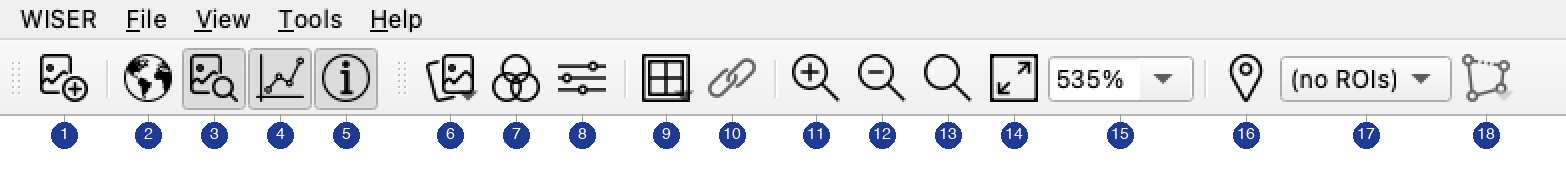
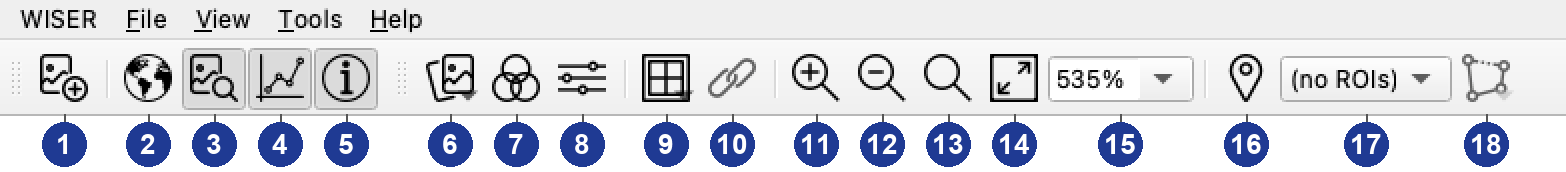
docs: flatten the tutorials navigation and enlarge the toolbar callouts
Fold the getting-started page into tutorials/index.md so the sidebar goes
straight from Tutorials to the eight tutorials, and title each tutorial
"N. Name" rather than "Tutorial N — Name". Draw the Tutorial 1 toolbar
callouts larger, in bold, and crop the unused second row.

Changed region(s): [[0.0, 0.0291, 1.0, 0.9593]]

diff --git a/doc/sphinx-general-wiser-docs/tools/make_tutorial_figures.py b/doc/sphinx-general-wiser-docs/tools/make_tutorial_figures.py
@@ -506,16 +506,16 @@ def toolbar():
     scale = 2
     strip = strip.resize((strip.width * scale, strip.height * scale), Image.NEAREST)
 
-    radius = 13
+    radius = 22
     band_height = 2 * (2 * radius + 10) + 8
     canvas = Image.new("RGB", (strip.width, strip.height + band_height), "#ffffff")
     canvas.paste(strip, (0, 0))
     draw = ImageDraw.Draw(canvas)
 
     font = None
-    for name in ("Helvetica.ttc", "Arial.ttf", "DejaVuSans.ttf"):
+    for name in ("Arial Bold.ttf", "DejaVuSans-Bold.ttf", "Arial.ttf"):
         try:
-            font = ImageFont.truetype(name, 16)
+            font = ImageFont.truetype(name, 28)
             break
         except OSError:
             continue
@@ -525,22 +525,23 @@ def toolbar():
     # Alternate between two rows whenever adjacent markers would collide.
     k = ratio * scale
     prev_x, prev_row = -1e9, 1
+    bottom = strip.height
     for i, (cx, _) in enumerate(entries, start=1):
         x = cx * k
         row = 0 if x - prev_x >= 2 * radius + 6 else 1 - prev_row
         prev_x, prev_row = x, row
         cy = strip.height + 6 + radius + row * (2 * radius + 10)
-        draw.line([(x, strip.height - 2), (x, cy - radius)], fill="#999999", width=1)
+        bottom = max(bottom, cy + radius + 6)
+        draw.line([(x, strip.height - 2), (x, cy - radius)], fill="#555555", width=2)
         draw.ellipse(
             [x - radius, cy - radius, x + radius, cy + radius],
             fill="#1f3a93",
             outline="#1f3a93",
         )
-        text = str(i)
-        tw = draw.textlength(text, font=font)
-        draw.text((x - tw / 2, cy - 9), text, fill="#ffffff", font=font)
+        draw.text((x, cy), str(i), fill="#ffffff", font=font, anchor="mm")
 
     path = OUT / "t1_toolbar_annotated.png"
+    canvas = canvas.crop((0, 0, canvas.width, bottom))
     canvas.save(path, "PNG", optimize=True)
     raw.unlink()
     _shrink(path)

diff --git a/doc/sphinx-general-wiser-docs/source/tutorials/index.md b/doc/sphinx-general-wiser-docs/source/tutorials/index.md
@@ -1,23 +1,120 @@
-# Tutorials and Example Workflows
+# Tutorials
 
-Start with the {doc}`Tutorials <getting-started>`.
+There are eight short tutorials, a little over two hours end to end. They run
+on data that ships with the WISER source, so there is nothing to download. Work
+through them in order and you will have used every major tool in the
+application on a real scene. If WISER is not installed yet, start with
+{doc}`Installation <../installation>`.
+
+```{admonition} What you are working with
+:class: note
+A GIS layer stores one value per pixel, or three if it is a color image. The
+scenes here store up to several hundred. Every pixel holds a spectrum: a
+measurement of how much light that patch of ground reflected at each of 4, 15
+or 425 wavelengths. WISER is built to read those spectra.
+
+So instead of arranging layers to make a picture, you read a measurement out of
+any pixel you click ({doc}`Tutorial 2 <02-spectra>`), average it over an area to
+get a signature you can trust ({doc}`Tutorial 3 <03-regions-of-interest>`),
+compare it against a laboratory reference to identify what is on the ground
+({doc}`Tutorial 7 <07-detection>`), and let the shapes of those spectra sort the
+scene into classes on their own ({doc}`Tutorial 5 <05-classification>`).
+
+Keep the Spectrum Plot pane open throughout. Most of what makes a result
+believable is visible there and nowhere else.
+```
+
+```{list-table}
+:header-rows: 1
+:widths: 6 32 42 20
+
+* - #
+  - Tutorial
+  - What you learn
+  - Data
+* - 1
+  - {doc}`Your First Scene <01-first-look>`
+  - Open a file, arrange the panes, choose bands, apply a contrast stretch
+  - `caltech_4_100_150_nm`
+* - 2
+  - {doc}`Reading Spectra <02-spectra>`
+  - Pull spectra from pixels, collect and compare them, load a mineral library, remove the continuum
+  - `caltech_425_7_7_nm`
+* - 3
+  - {doc}`Regions of Interest <03-regions-of-interest>`
+  - Define classes, extract mean signatures, export spectra and geometry
+  - `caltech_4_100_150_nm`
+* - 4
+  - {doc}`Band Math: Mapping Vegetation <04-band-math-ndvi>`
+  - Write and bind an expression, build a vegetation index, threshold it
+  - `caltech_4_100_150_nm`
+* - 5
+  - {doc}`Classifying a Scene <05-classification>`
+  - Read feature space in the scatter plot, run K-means, identify clusters
+  - `caltech_4_100_150_nm`
+* - 6
+  - {doc}`PCA and MNF <06-pca-mnf>`
+  - Reduce dimensions, read a scree plot, choose between variance and SNR ordering
+  - `caltech_4_100_150_nm`
+* - 7
+  - {doc}`Finding a Known Material <07-detection>`
+  - SAM, SFF, MTMF and linear unmixing, and which to reach for
+  - `caltech_15_20_22_bb`
+* - 8
+  - {doc}`Bench and Close-Range Data <08-bench-and-close-range>`
+  - The same tools on a laboratory cube, and what a bench instrument needs from you
+  - `circuit_4_100_150_um`
+```
+
+## The data
+
+Everything these tutorials need is already in your WISER checkout:
+
+```
+src/test_utils/test_datasets/     rasters
+src/test_utils/test_spectra/      spectral libraries
+```
+
+These are the project's unit-test fixtures, so they are small on purpose — a
+150 × 150 pixel campus scene, a 7 × 7 pixel 425-band cube, a 20 × 22 pixel
+short-wave infrared subset with a bad-band list. They are real data, and they
+are enough to exercise every tool.
+
+If you installed WISER from a release rather than from source, get them by
+cloning the repository:
+
+```bash
+git clone https://github.com/Ehlmann-research-group/WISER.git
+```
+
+Without git, open the repository page on GitHub and choose **Code ▸ Download
+ZIP**.
 
 Every screenshot in the tutorials was taken from WISER by a script that runs
 the steps described, not mocked up.
 
----
-
 ## Where to go from here
 
-- {doc}`User Manual <../user-content/user-manual>` — the reference for every
+- {doc}`User Manual <../user-content/user-manual>`: the reference for every
   tool, dialog and option
-- {doc}`Data Analysis Tools <../user-content/data-analysis-tools/data-analysis-tools>` —
+- {doc}`Data Analysis Tools <../user-content/data-analysis-tools/data-analysis-tools>`:
   what each algorithm does and how it is implemented
-- {doc}`Extending WISER <../extending-wiser/index>` — add your own analysis as
+- {doc}`Extending WISER <../extending-wiser/index>`: add your own analysis as
   a plugin
+
+---
+
+**Next:** start with {doc}`Tutorial 1 <01-first-look>`.
 
 ```{toctree}
 :hidden:
 
-getting-started
+01-first-look
+02-spectra
+03-regions-of-interest
+04-band-math-ndvi
+05-classification
+06-pca-mnf
+07-detection
+08-bench-and-close-range
 ```

diff --git a/doc/sphinx-general-wiser-docs/source/index.rst b/doc/sphinx-general-wiser-docs/source/index.rst
@@ -133,7 +133,7 @@ multi-file datasets, sub-datasets and troubleshooting.
 Data to try
 -----------
 
-The :doc:`Tutorials <tutorials/getting-started>` run on fixtures in the
+The :doc:`Tutorials <tutorials/index>` run on fixtures in the
 WISER source tree, so there is nothing to download. For full scenes, try
 these public datasets:
 

diff --git a/doc/sphinx-general-wiser-docs/source/tutorials/08-bench-and-close-range.md b/doc/sphinx-general-wiser-docs/source/tutorials/08-bench-and-close-range.md
@@ -1,4 +1,4 @@
-# Tutorial 8 — Bench and Close-Range Data
+# 8. Bench and Close-Range Data
 
 **Goal:** see that WISER treats a laboratory cube exactly like an airborne one,
 and learn what a bench instrument needs from you that an airborne product has

diff --git a/doc/sphinx-general-wiser-docs/source/tutorials/07-detection.md b/doc/sphinx-general-wiser-docs/source/tutorials/07-detection.md
@@ -1,4 +1,4 @@
-# Tutorial 7 — Finding a Known Material
+# 7. Finding a Known Material
 
 **Goal:** go from "what is in this scene?" to "where is this specific
 substance?" using WISER's four matching and unmixing tools, and know which one

diff --git a/doc/sphinx-general-wiser-docs/source/tutorials/05-classification.md b/doc/sphinx-general-wiser-docs/source/tutorials/05-classification.md
@@ -1,4 +1,4 @@
-# Tutorial 5 — Classifying a Scene
+# 5. Classifying a Scene
 
 **Goal:** find structure in feature space with the interactive scatter plot,
 then let K-means partition the scene without being told what to look for.

diff --git a/doc/sphinx-general-wiser-docs/source/tutorials/06-pca-mnf.md b/doc/sphinx-general-wiser-docs/source/tutorials/06-pca-mnf.md
@@ -1,4 +1,4 @@
-# Tutorial 6 — PCA and MNF
+# 6. PCA and MNF
 
 **Goal:** compress a cube into a handful of bands, judge how many are worth
 keeping, and know when to reach for the Minimum Noise Fraction (MNF) instead of

diff --git a/doc/sphinx-general-wiser-docs/source/tutorials/03-regions-of-interest.md b/doc/sphinx-general-wiser-docs/source/tutorials/03-regions-of-interest.md
@@ -1,4 +1,4 @@
-# Tutorial 3 — Regions of Interest
+# 3. Regions of Interest
 
 **Goal:** define three land-cover classes, extract a mean spectrum for each,
 and export the pixel spectra for use outside WISER.

diff --git a/doc/sphinx-general-wiser-docs/source/tutorials/04-band-math-ndvi.md b/doc/sphinx-general-wiser-docs/source/tutorials/04-band-math-ndvi.md
@@ -1,4 +1,4 @@
-# Tutorial 4 — Band Math: Mapping Vegetation
+# 4. Band Math: Mapping Vegetation
 
 **Goal:** compute a vegetation index over the campus scene, display it, and
 read the result as a canopy map.

diff --git a/doc/sphinx-general-wiser-docs/source/tutorials/02-spectra.md b/doc/sphinx-general-wiser-docs/source/tutorials/02-spectra.md
@@ -1,4 +1,4 @@
-# Tutorial 2 — Reading Spectra
+# 2. Reading Spectra
 
 **Goal:** get a spectrum out of an image, collect several, compare them, and
 bring in reference spectra from a library.

diff --git a/doc/sphinx-general-wiser-docs/source/tutorials/01-first-look.md b/doc/sphinx-general-wiser-docs/source/tutorials/01-first-look.md
@@ -1,4 +1,4 @@
-# Tutorial 1 — Your First Scene
+# 1. Your First Scene
 
 **Goal:** open an image, move around it, choose which bands you look at, and
 make the picture readable.
